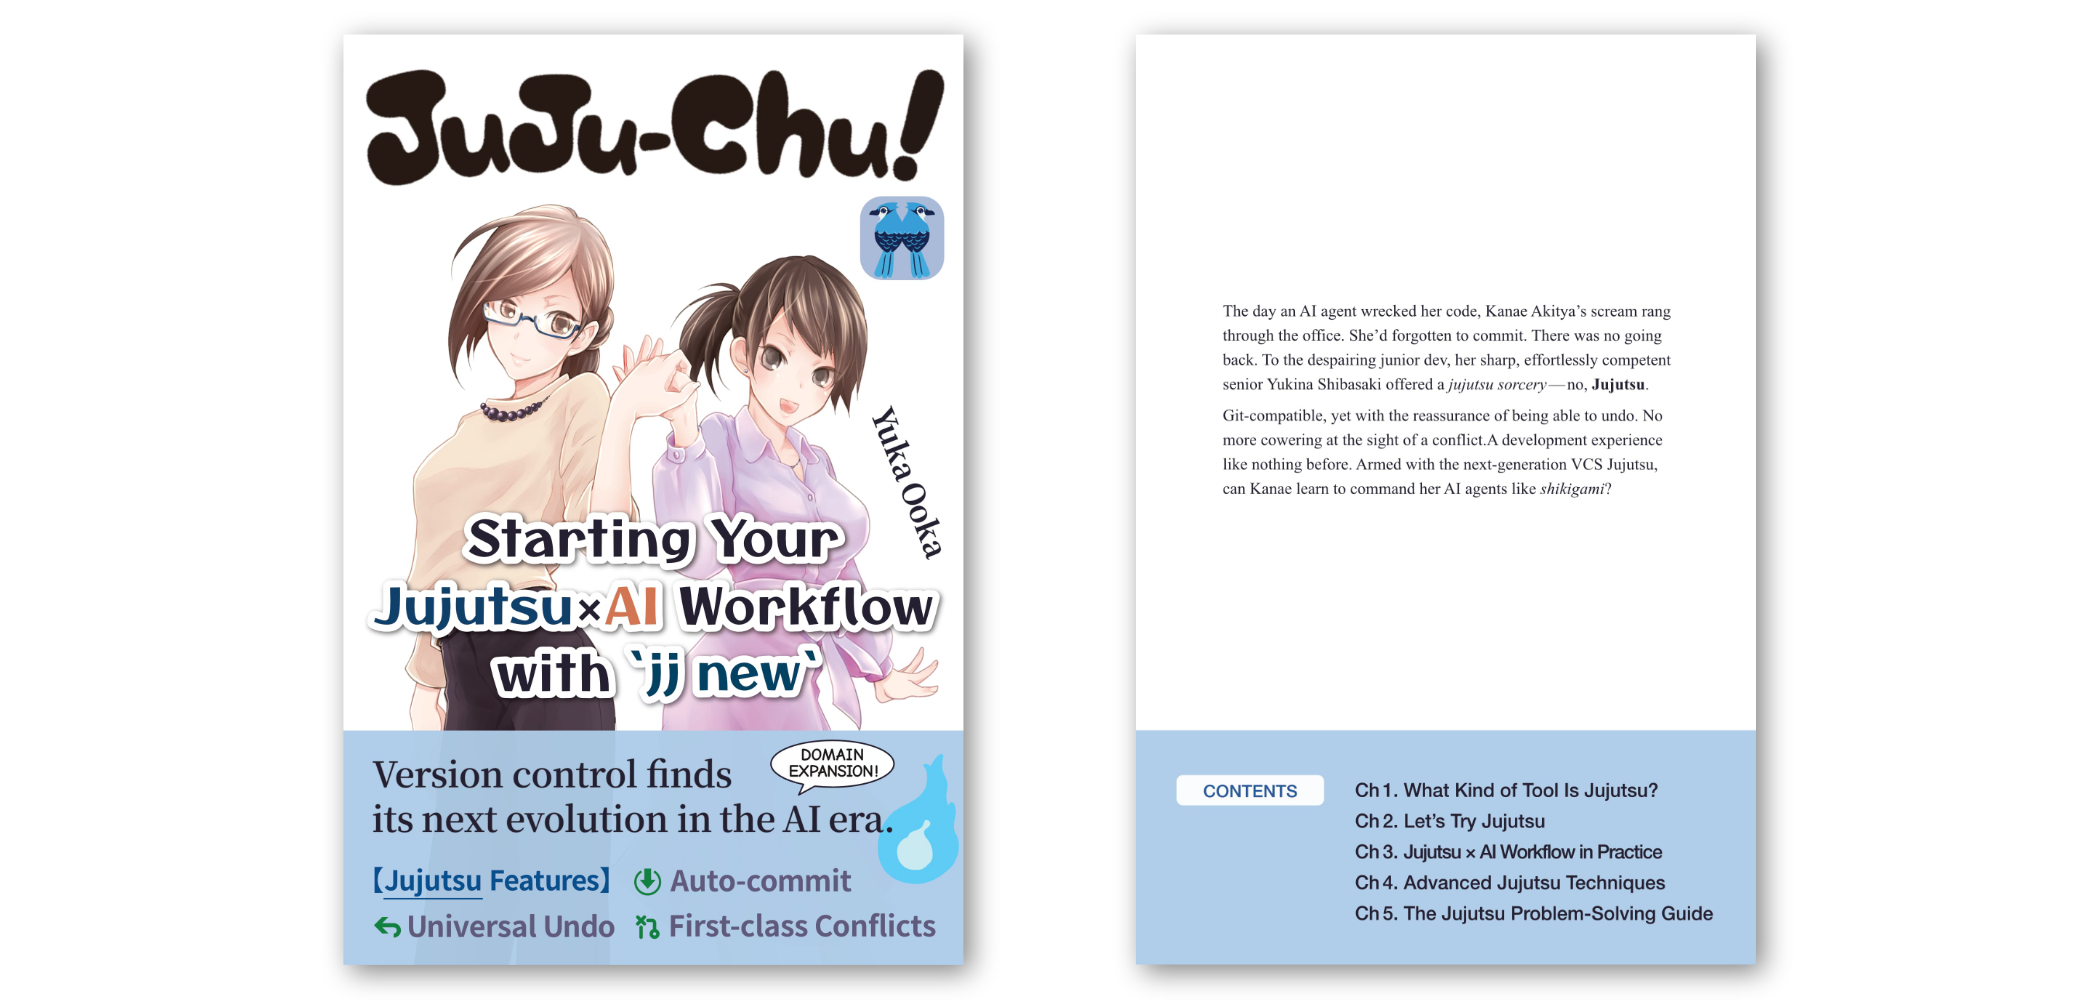
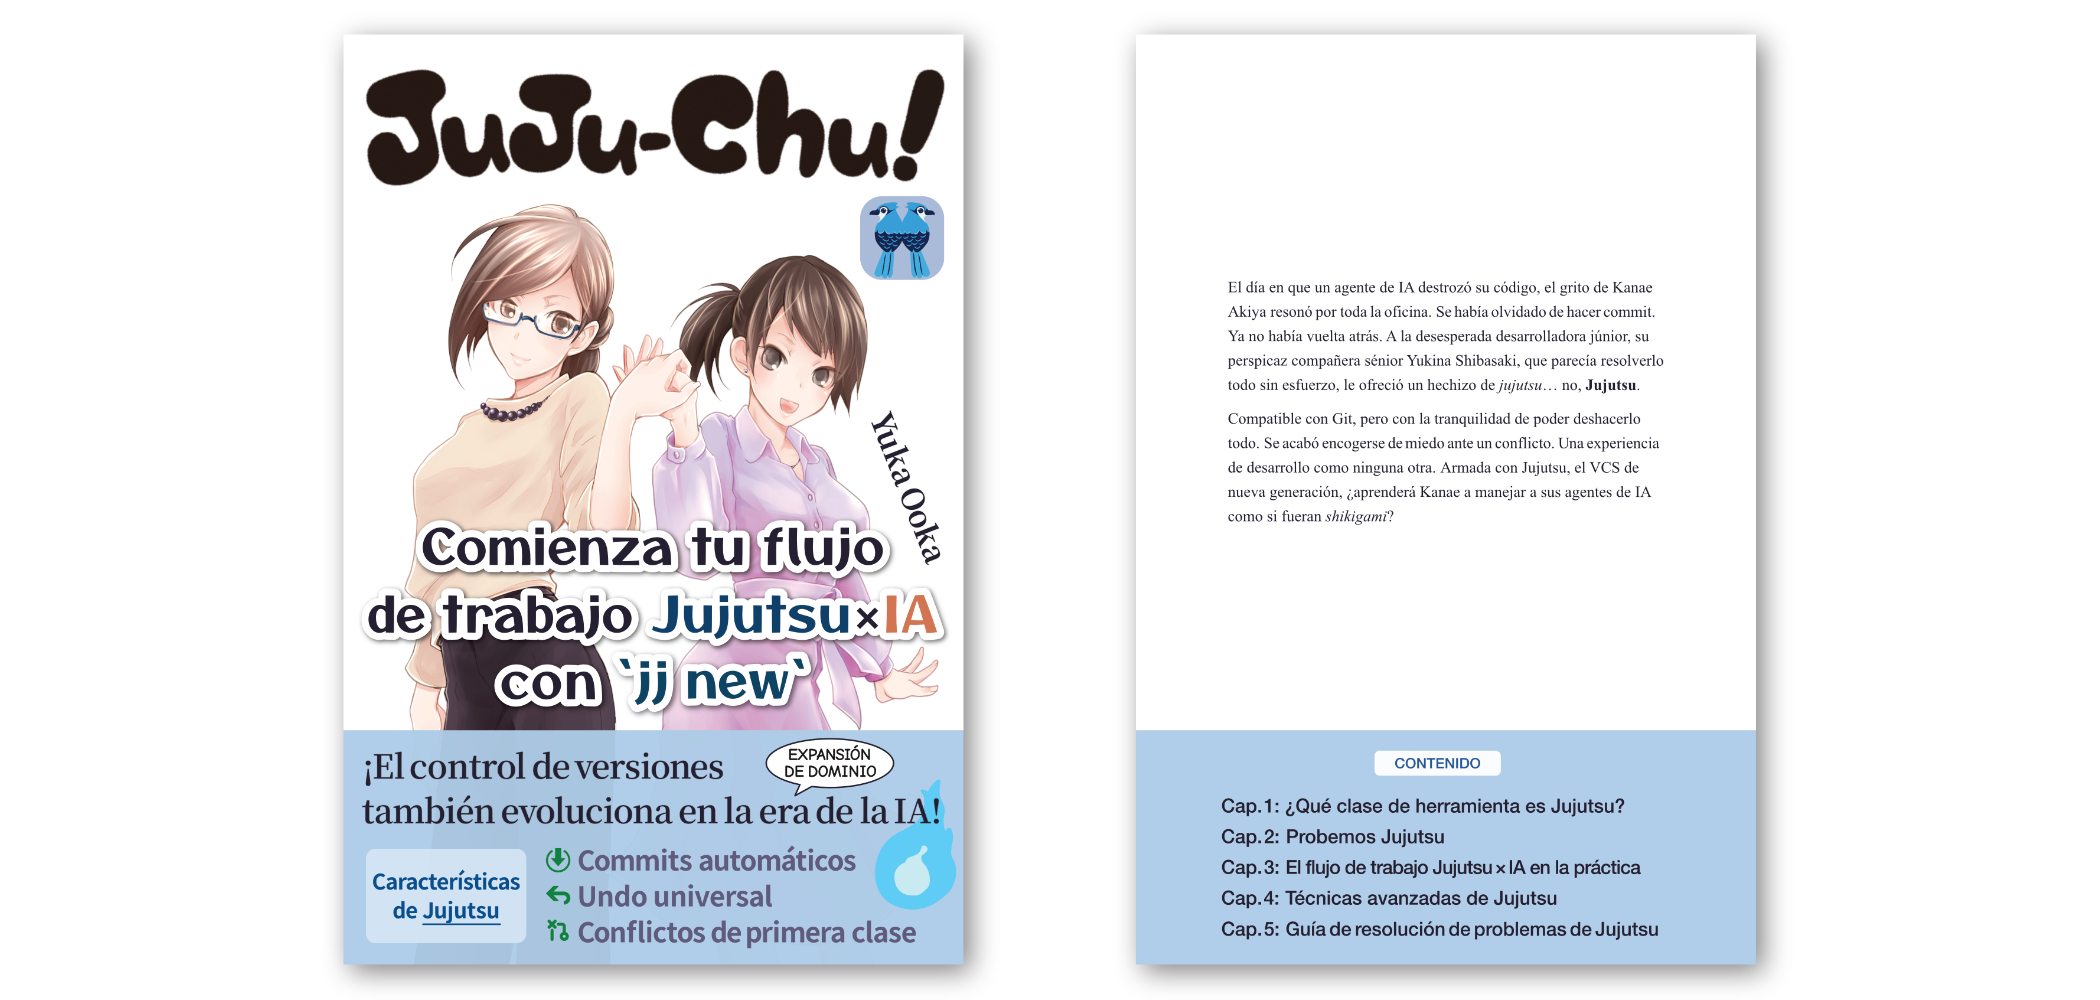
update errata

diff --git a/README.md b/README.md
@@ -1,6 +1,6 @@
-# Repositorio complementario de *Juju-chu! Comienza tu flujo de trabajo Jujutsu × IA con `jj new`*
+# Repositorio complementario de _Juju-chu! Comienza tu flujo de trabajo Jujutsu × IA con `jj new`_
 
-Este repositorio contiene el código de ejemplo de *Juju-chu! Comienza tu flujo de trabajo Jujutsu × IA con `jj new`*, además de las erratas y la información sobre actualizaciones.
+Este repositorio contiene el código de ejemplo de _Juju-chu! Comienza tu flujo de trabajo Jujutsu × IA con `jj new`_, además de las erratas y la información sobre actualizaciones.
 
 <img src="./images/jujuchu-covers.png" alt="Portadas de Juju-chu!" />
 
@@ -8,7 +8,7 @@ Este repositorio contiene el código de ejemplo de *Juju-chu! Comienza tu flujo 
 
 ## ■ Descripción general
 
-*Juju-chu! Comienza tu flujo de trabajo Jujutsu × IA con `jj new`* es una guía completa para iniciarse en **[Jujutsu](https://www.jj-vcs.dev/)**, un sistema de control de versiones de nueva generación que cada vez despierta más interés.
+_Juju-chu! Comienza tu flujo de trabajo Jujutsu × IA con `jj new`_ es una guía completa para iniciarse en **[Jujutsu](https://www.jj-vcs.dev/)**, un sistema de control de versiones de nueva generación que cada vez despierta más interés.
 
 El libro explica los fundamentos y ayuda a construir un modelo mental de Jujutsu mediante comparaciones con Git. También ofrece consejos prácticos para trabajar con agentes de programación y soluciones a los problemas más frecuentes al usar Jujutsu en proyectos reales.
 
@@ -20,8 +20,8 @@ Al terminarlo, podrás empezar a usar Jujutsu de inmediato e incorporarlo a tu t
 
 Hay una muestra gratuita disponible en PDF y EPUB. Puedes echarle un vistazo antes de leer el libro completo.
 
-* [Muestra gratuita en PDF](./jujuchu-sample.pdf)
-* [Muestra gratuita en EPUB](./jujuchu-sample.epub)
+- [Muestra gratuita en PDF](./jujuchu-sample.pdf)
+- [Muestra gratuita en EPUB](./jujuchu-sample.epub)
 
 <br>
 
@@ -29,12 +29,12 @@ Hay una muestra gratuita disponible en PDF y EPUB. Puedes echarle un vistazo ant
 
 ### Leanpub
 
-* [Edición en PDF y EPUB](https://leanpub.com/juju-chu) (desde 12 USD)
+- [Edición en PDF y EPUB](https://leanpub.com/juju-chu-es) (desde 12 USD)
 
 ### Amazon
 
-* [Edición Kindle](https://www.amazon.com/dp/B0H82MZBJH) (12 USD)
-* [Edición en tapa blanda](https://www.amazon.com/dp/B0H82KN1BH) (18,50 USD)
+- [Edición Kindle](https://www.amazon.com/dp/B0HHYY8RMD) (12 USD)
+- [Edición en tapa blanda](https://www.amazon.com/dp/B0H82KN1BH) (18,50 USD)
 
 <br>
 
@@ -42,8 +42,8 @@ Hay una muestra gratuita disponible en PDF y EPUB. Puedes echarle un vistazo ant
 
 El código fuente de los ejemplos de configuración que aparecen en el libro está disponible en los siguientes directorios:
 
-* Ejemplos de configuración del capítulo 3: [`./samples/ch3/`](./samples/ch3/)
-* Ejemplos de configuración del capítulo 4: [`./samples/ch4/`](./samples/ch4/)
+- Ejemplos de configuración del capítulo 3: [`./samples/ch3/`](./samples/ch3/)
+- Ejemplos de configuración del capítulo 4: [`./samples/ch4/`](./samples/ch4/)
 
 <br>
 
@@ -53,13 +53,13 @@ La edición digital se actualiza cuando hace falta. Si la compraste, descarga la
 
 Para saber qué erratas y actualizaciones corresponden a tu edición impresa, comprueba los datos de impresión que aparecen en el colofón de tu ejemplar y consulta la página siguiente.
 
-* [Erratas y actualizaciones](./errata.md)
+- [Erratas y actualizaciones](./errata.md)
 
 <br>
 
 ## ■ Tabla de contenido
 
-####  Prefacio
+#### Prefacio
 
 #### Sobre este libro
 
@@ -145,9 +145,9 @@ Para saber qué erratas y actualizaciones corresponden a tu edición impresa, co
   - Aparece un críptico «Error: The working copy is stale»
   - Un change se ha quedado con una anotación «divergent» sin saber cómo
   - Jujutsu no rastrea mis archivos de imagen o video
-  - Después de hacer merge de un PR y un fetch, @ se va por donde no debe
+  - Después de hacer merge de un PR y un fetch, `@` se va por donde no debe
   - Borré de GitHub un bookmark remoto en el que aún estaba trabajando
-  - Claude Code me pide permiso para ejecutar jj log aunque está en allow
+  - Claude Code me pide permiso para ejecutar `jj log` aunque está en allow
 - Columna: ¡Queremos un servicio de hosting nativo de JJ!
 
 #### Epílogo

diff --git a/errata.md b/errata.md
@@ -1,31 +1,15 @@
-# Errata & Updates for _Juju-chu!—Starting Your Jujutsu × AI Workflow with `jj new`_
+# Errata & Updates for *Juju-chu! —Comese seu fluxo de trabalho Jujutsu × IA com `jj new`*
 
-Last updated: August 4, 2026
+Última actualización: 4 de septiembre de 2026
 
-### Please Note
+### Ten en cuenta
 
-- This errata page is updated as needed.
-- Both the ebook and paperback editions may be updated to new versions that incorporate corrections and revisions as needed.
-- Page numbers for corrections are based on the initial version of the PDF and paperback. As versions are updated, page numbers may shift relative to those in the version you have.
+- Esta página de erratas se actualiza cuando es necesario.
+- Tanto la edición digital como la edición en tapa blanda pueden actualizarse para incorporar correcciones y revisiones.
+- Los números de página indicados en las correcciones corresponden a las versiones iniciales del PDF y de la edición en tapa blanda. La paginación puede cambiar a medida que se publiquen nuevas versiones y no siempre coincidirá con la de la versión que tengas.version you have.
 
 <br>
 
-### Corrections
+### Correcciones
 
-- Column in chapter 2 / p.64
-
-```diff
-- Column: Jujuts's Roots—What Kind of VCS Is Mercurial?
-+ Column: Jujutsu's Roots—What Kind of VCS Is Mercurial?
-```
-
-- 3-2-1. Running `jj fix` via Hooks / p.79 / code block
-
-```diff
-  [fix.tools.biome]
-  command = [ "pnpm", "exec", "biome", "check", "--write" ,"--stdin-file-path",
-  "$path" ]
-  patterns = ["glob:'**/*.
-- {js,mjs,cjs,ts,mts,cts,jsx,tsx,html,css,json,jsonc,yaml,yml,md,mdx}'"]
-+ {js,mjs,cjs,ts,mts,cts,jsx,tsx,html,css,json,jsonc}'"]
-```
+Por el momento no hay correcciones.
